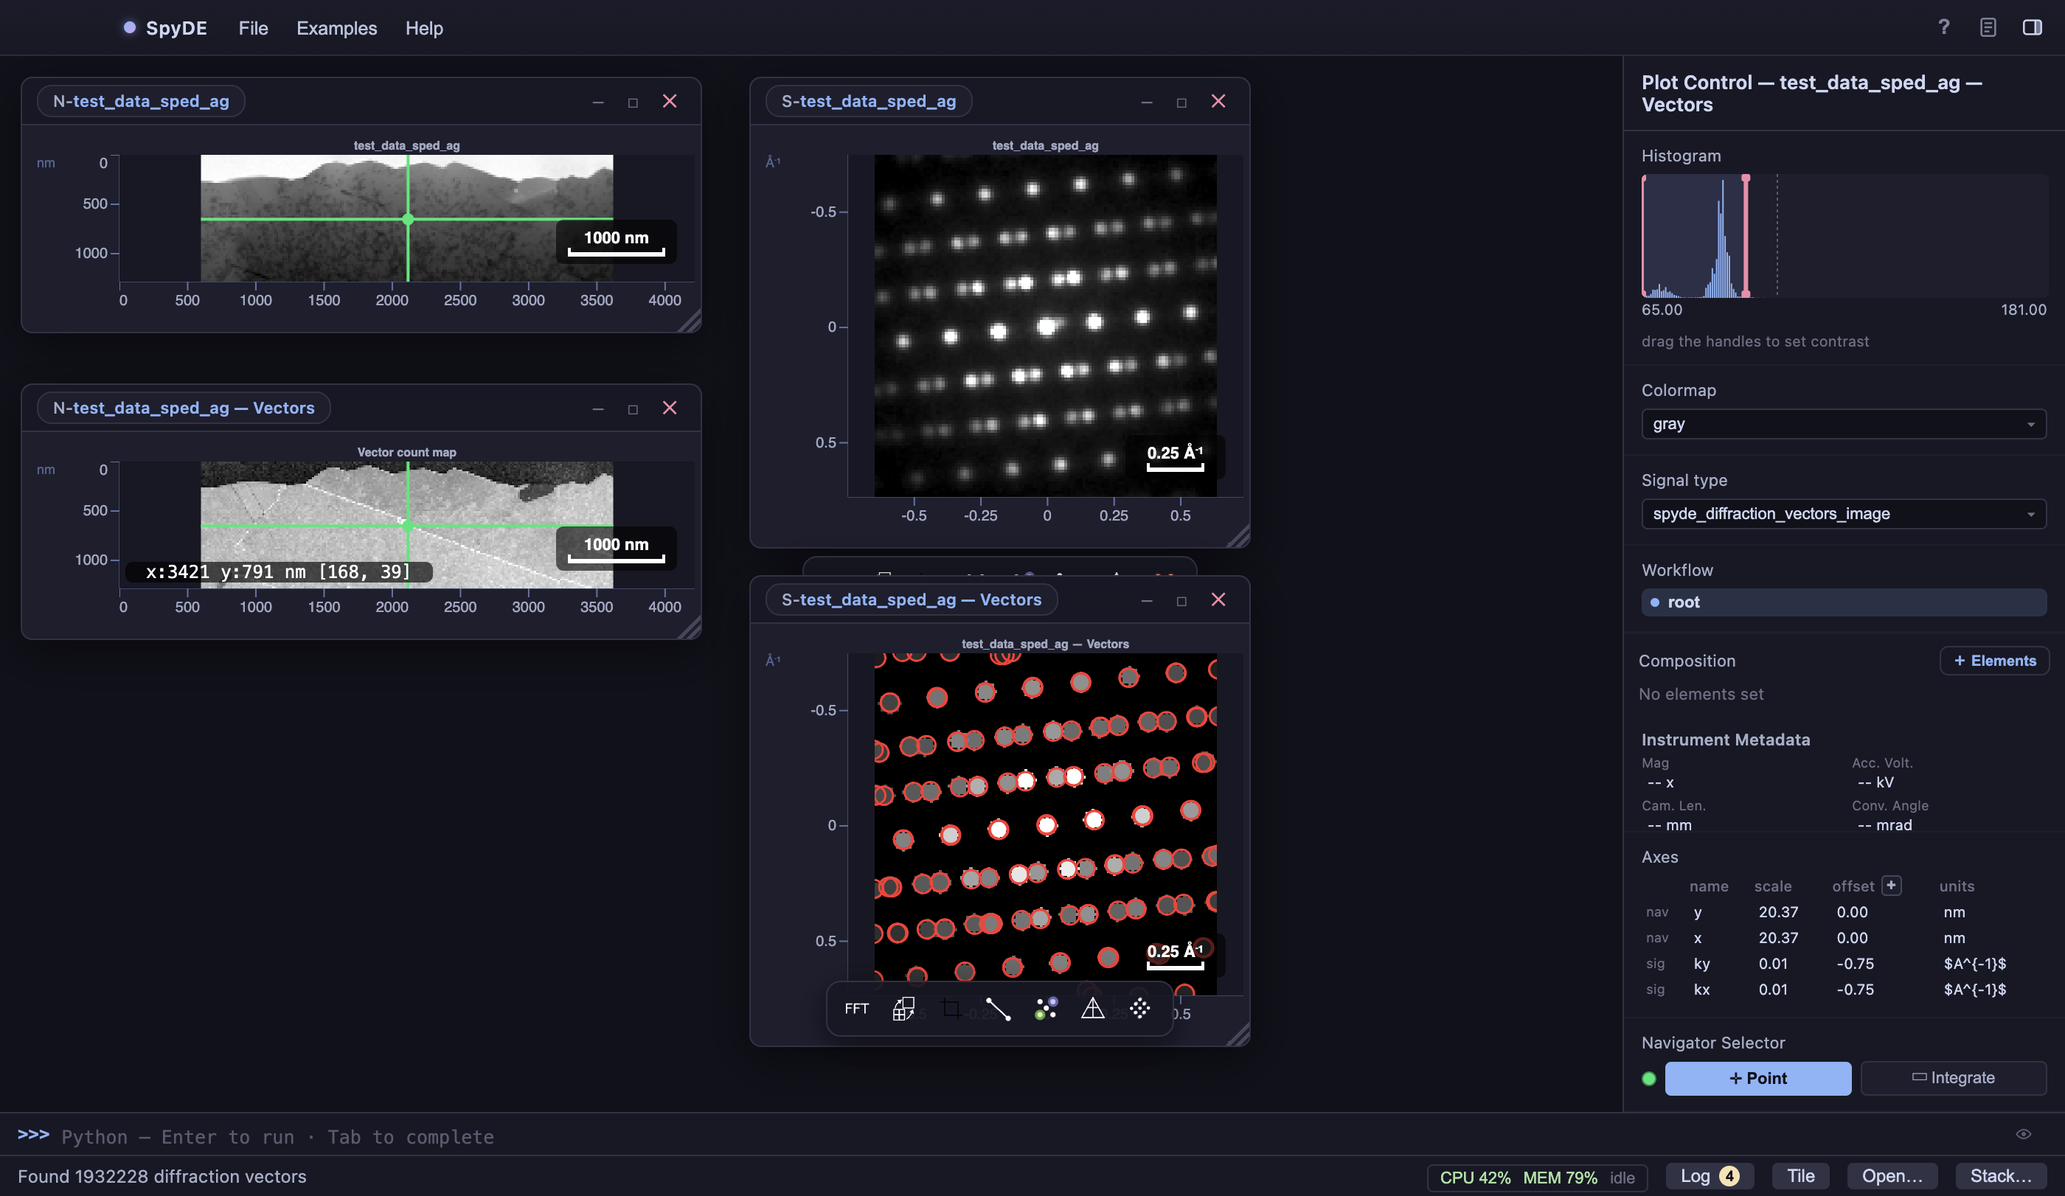
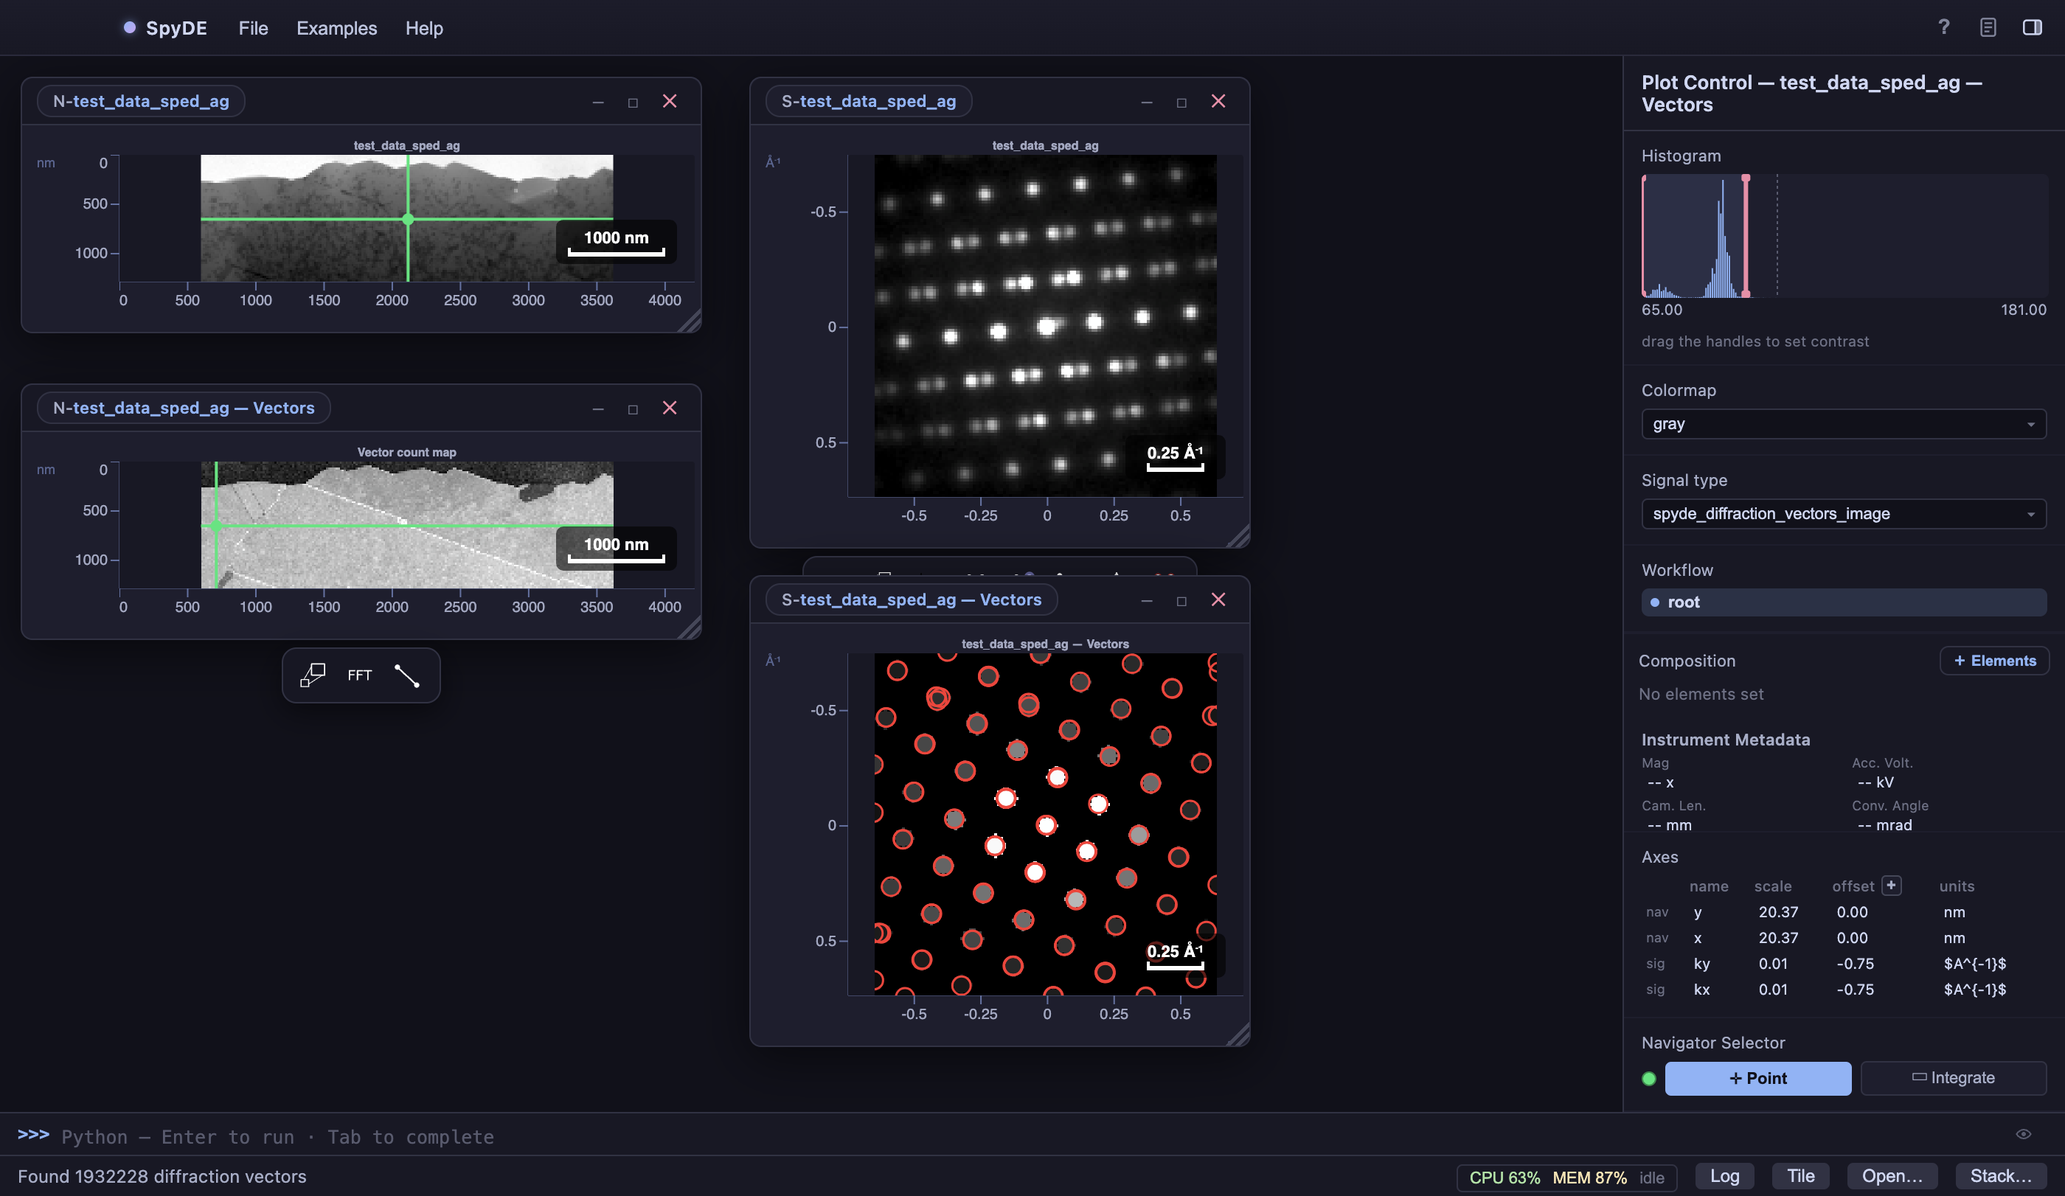
test(progressive): drive the navigator for real when proving the preview
The e2e spec's "drag over an already-computed region" pressed the pointer at an
arbitrary point on the count map and moved it 3 px. An anyplotlib crosshair is
GRABBED, not clicked to — the hit-test only matches within a few px of the
centre and the drag then moves it by the pointer DELTA — so that press moved
the navigator not at all, silently. The spec passed anyway: its only assertion
was that two of four sampled frames differed, which the auto-sample paints of
behaviour (a) satisfy on their own. Behaviour (b), reading an already-computed
position on demand, was never exercised. Confirmed from the screenshots: the
crosshair sat at the same pixel in every shot of the "drag" sequence.

- _harness.cjs grows crosshairAt / dragCrosshair: locate the crosshair by its
  pure-green guide lines (the column and the row carrying the most green
  pixels), grab it, walk it, and report how far it actually travelled. Both
  progressive specs now assert the crosshair MOVED before drawing any
  conclusion from the pixels.

- ProgressiveSignalPreview counts navigator-driven reads itself
  (frames_served / reads_declined) and narrates them on a throttled
  "[live-signal] … navigator read served" line. That is the direct evidence for
  (b): the signal plot is simultaneously being repainted by landing blocks, so
  a pixel signature cannot distinguish "the drag was answered" from "a block
  happened to land just then". The spec asserts the served count grows across
[…]

Changed region(s): [[0.4039, 0.524, 0.5904, 0.8631], [0.6836, 0.9556, 0.8389, 1.0], [0.0932, 0.4624, 0.2175, 0.4932]]

diff --git a/electron/tests/progressive_signal_preview.spec.ts b/electron/tests/progressive_signal_preview.spec.ts
@@ -17,6 +17,14 @@
  * (208x64 patterns) so the batch spans MANY nav chunks — si_grains is 6x6 and
  * computes as a SINGLE chunk, i.e. it has no progressive phase to observe.
  *
+ * (b) is asserted on the BACKEND's own served-read count, not on pixels alone:
+ * the signal plot is simultaneously being repainted by landing blocks (that is
+ * (a)), so "the picture changed after I dragged" cannot distinguish "the drag
+ * was answered" from "a block happened to land just then". The drag itself goes
+ * through the harness's `dragCrosshair` — an anyplotlib crosshair is GRABBED,
+ * not clicked to, and an earlier version of this spec pressed at an arbitrary
+ * point, moved the navigator not at all, and passed anyway.
+ *
  * Screenshots land in electron/progressive_signal_shots/ (gitignored; the ones
  * in the PR were copied from there).
  */
@@ -24,7 +32,7 @@ import { test, expect } from '@playwright/test'
 import { mkdirSync } from 'fs'
 import { join } from 'path'
 const {
-  launchApp, backendAction, waitForSubwindowCount, sigWindow,
+  launchApp, backendAction, waitForSubwindowCount, sigWindow, dragCrosshair,
 } = require('./_harness.cjs')
 
 const SHOTS = join(__dirname, '..', 'progressive_signal_shots')
@@ -80,13 +88,41 @@ const logLines = (needle: string): string[] =>
 
 const finalized = () => logLines('[fv-batch] finalized').length > 0
 
-/** `(N/M positions ready)` pairs from the preview's own log line. */
+/**
+ * `(N/M positions ready)` pairs from the AUTO-SAMPLE paint line — behaviour (a).
+ *
+ * Deliberately keyed on `preview frame at`, not on `[live-signal]`: the same
+ * subsystem also logs the navigator-read line for (b), which carries the same
+ * `(N/M positions ready` text, and counting both would let a navigator read
+ * satisfy the "a landing block painted a frame" assertion.
+ */
 function previewProgress(): Array<[number, number]> {
-  return logLines('[live-signal]')
-    .map((l) => /\((\d+)\/(\d+) positions ready\)/.exec(l))
+  return logLines('preview frame at')
+    .map((l) => /\((\d+)\/(\d+) positions ready/.exec(l))
     .filter(Boolean)
     .map((m) => [parseInt(m![1], 10), parseInt(m![2], 10)] as [number, number])
 }
+
+/**
+ * How many navigator-driven reads the preview has ANSWERED from the
+ * already-computed region — the backend's own count, parsed from the
+ * `navigator read served` line.
+ *
+ * This is the direct evidence for behaviour (b), and a pixel signature is not a
+ * substitute for it: the signal plot is also being repainted by landing blocks
+ * (behaviour (a)), so "the picture changed after I dragged" cannot distinguish
+ * "the drag was answered" from "a block happened to land just then".
+ */
+function servedCount(): number {
+  const lines = logLines('navigator read served')
+  if (!lines.length) return 0
+  const m = /(\d+) served/.exec(lines[lines.length - 1])
+  return m ? parseInt(m[1], 10) : 0
+}
+
+// The crosshair drag itself lives in the harness (`dragCrosshair`): an
+// anyplotlib crosshair is GRABBED, not clicked to, so a press at an arbitrary
+// point moves nothing — see the helper's own note.
 
 test('the vectors signal plot fills in while the batch is still running', async () => {
   const { page } = ctx
@@ -119,15 +155,24 @@ test('the vectors signal plot fills in while the batch is still running', async 
   await page.screenshot({ path: join(SHOTS, '02-result-window-opened.png') })
 
   // ── (a) the signal plot repaints WHILE the batch is still running ─────────
+  // The baseline: nothing computed yet, so the vectors DP is still its black
+  // placeholder. Every later shot is compared against this one.
+  const baseline = await figureSignature(vecSig)
+  await page.screenshot({ path: join(SHOTS, '03-fill-start-both-black.png') })
+
   const during: Array<{ sum: number; bright: number; ready: number; total: number }> = []
-  let shot = 3
+  let shot = 4
   for (let i = 0; i < 400 && !finalized(); i++) {
     const sig = await figureSignature(vecSig)
     const prog = previewProgress()
-    const last = prog.length ? prog[prog.length - 1] : [0, 0]
-    // One capture per NEW fill stage: the preview's own `(ready/total)` counter
-    // moving is what makes two shots worth keeping.
-    if (during.length === 0 || during[during.length - 1].ready !== last[0]) {
+    // Only start capturing once the PREVIEW has painted at least once —
+    // before that the plot can still repaint for unrelated reasons (chrome,
+    // the hover toolbar) and those frames say nothing about the fill.
+    if (!prog.length) { await page.waitForTimeout(400); continue }
+    const last = prog[prog.length - 1]
+    // One capture per REPAINT: a changed content signature is the thing being
+    // asserted, and the `(ready/total)` the preview last logged labels it.
+    if (during.length === 0 || during[during.length - 1].sum !== sig.sum) {
       during.push({ ...sig, ready: last[0], total: last[1] })
       await page.screenshot({
         path: join(SHOTS, `${String(shot++).padStart(2, '0')}-during-fill-${last[0]}of${last[1]}.png`),
@@ -137,7 +182,14 @@ test('the vectors signal plot fills in while the batch is still running', async 
     await page.waitForTimeout(400)
   }
   // eslint-disable-next-line no-console
-  console.log('during-fill samples:', JSON.stringify(during))
+  console.log('during-fill samples:', JSON.stringify(during),
+              'baseline:', JSON.stringify(baseline))
+
+  // It came off the black placeholder, not merely "changed somehow".
+  expect(during.every((d) => d.bright > baseline.bright),
+    `the vectors DP never got brighter than its black placeholder
+     (baseline ${JSON.stringify(baseline)}): ${JSON.stringify(during)}`,
+  ).toBeTruthy()
 
   const progress = previewProgress()
   expect(progress.length,
@@ -156,27 +208,36 @@ test('the vectors signal plot fills in while the batch is still running', async 
   const vecNav = results
     .filter({ has: page.getByTestId('window-breadcrumb').filter({ hasText: /^N-/ }) })
     .last()
-  const navBox = await vecNav.locator('iframe').first().boundingBox()
-  expect(navBox).not.toBeNull()
-  // Walk across the count map: the already-filled part of the scan reads back
-  // straight away, so each position paints ITS OWN pattern (a distinct
-  // signature) instead of leaving the DP on one stale frame.
+  // Walk LEFT from the crosshair: the result window's right edge sits under the
+  // Plot Control dock, and a press that lands on the dock drives nothing.
+  const servedBefore = servedCount()
   const dragSigs: number[] = []
-  for (const fx of [0.3, 0.45, 0.6, 0.75]) {
-    await page.mouse.move(navBox!.x + navBox!.width * fx,
-                          navBox!.y + navBox!.height * 0.5)
-    await page.mouse.down()
-    await page.mouse.move(navBox!.x + navBox!.width * fx + 3,
-                          navBox!.y + navBox!.height * 0.5 + 3, { steps: 4 })
-    await page.mouse.up()
-    await page.waitForTimeout(700)
-    dragSigs.push((await figureSignature(vecSig)).sum)
-  }
+  const walk = await dragCrosshair(page, vecNav, {
+    dx: -26, steps: 5,
+    onStep: async (i: number) => {
+      dragSigs.push((await figureSignature(vecSig)).sum)
+      await page.screenshot({ path: join(SHOTS, `8${i}-drag-step-${i}.png`) })
+    },
+  })
+
   const stillRunning = !finalized()
+  const servedAfter = servedCount()
   await page.screenshot({ path: join(SHOTS, '90-drag-over-computed.png') })
   // eslint-disable-next-line no-console
-  console.log('drag over computed region: signatures', JSON.stringify(dragSigs),
+  console.log('drag over computed region: crosshair moved', walk.moved, 'px',
+              'signatures', JSON.stringify(dragSigs),
+              'served', servedBefore, '→', servedAfter,
               'batch still running:', stillRunning)
+
+  // The guard the previous version of this spec lacked: if the crosshair never
+  // moved, everything below is measuring landing blocks, not the drag.
+  expect(walk.moved,
+    'the navigator crosshair never moved, so nothing about reading an '
+    + 'already-computed position was exercised').toBeGreaterThan(20)
+  // The backend answering navigator reads from its ready mask IS behaviour (b).
+  expect(servedAfter - servedBefore,
+    'dragging the navigator over the computed region did not serve a single '
+    + 'frame from the already-computed vectors').toBeGreaterThan(0)
   expect(new Set(dragSigs).size,
     `the diffraction pattern did not follow the navigator over the computed
      region (identical frames at every position): ${JSON.stringify(dragSigs)}`,

diff --git a/electron/tests/progressive_orientation_preview.spec.ts b/electron/tests/progressive_orientation_preview.spec.ts
@@ -22,7 +22,7 @@ import { test, expect } from '@playwright/test'
 import { mkdirSync } from 'fs'
 import { join } from 'path'
 const {
-  launchApp, backendAction, waitForSubwindowCount, sigWindow,
+  launchApp, backendAction, waitForSubwindowCount, dragCrosshair,
 } = require('./_harness.cjs')
 
 const SHOTS = join(__dirname, '..', 'progressive_orientation_shots')
@@ -41,6 +41,28 @@ test.afterAll(async () => {
 })
 
 test.setTimeout(600_000)
+
+/** Checksum of one subwindow's figure canvases — "is this a different frame?" */
+async function figureSignature(win: any): Promise<number> {
+  const ifel = await win.locator('iframe').first().elementHandle()
+  if (!ifel) return -1
+  const frame = await ifel.contentFrame()
+  if (!frame) return -1
+  try {
+    return await frame.evaluate(() => {
+      let sum = 0
+      for (const c of Array.from(document.querySelectorAll('canvas')) as HTMLCanvasElement[]) {
+        const g = c.getContext('2d')
+        if (!g || !c.width || !c.height) continue
+        const d = g.getImageData(0, 0, c.width, c.height).data
+        for (let p = 0; p < d.length; p += 4) {
+          sum = (sum + (d[p] + d[p + 1] + d[p + 2]) * (1 + (p % 7))) % 2147483647
+        }
+      }
+      return sum
+    })
+  } catch { return -1 }
+}
 
 test('the IPF map fills in while the source DP stays navigable', async () => {
   const { page } = ctx
@@ -62,18 +84,34 @@ test('the IPF map fills in while the source DP stays navigable', async () => {
   const srcNav = page.getByTestId('subwindow')
     .filter({ has: page.getByTestId('window-breadcrumb').filter({ hasText: /^N-test/ }) })
     .first()
-  const navBox = await srcNav.locator('iframe').first().boundingBox()
-  expect(navBox).not.toBeNull()
-  for (let i = 0; i < 4; i++) {
-    const fx = 0.25 + 0.15 * i
-    await page.mouse.move(navBox!.x + navBox!.width * fx, navBox!.y + navBox!.height * 0.5)
-    await page.mouse.down()
-    await page.mouse.move(navBox!.x + navBox!.width * fx + 3,
-                          navBox!.y + navBox!.height * 0.5 + 3, { steps: 4 })
-    await page.mouse.up()
-    await page.waitForTimeout(1200)
-    await page.screenshot({ path: join(SHOTS, `${String(i + 2).padStart(2, '0')}-during-fill.png`) })
-  }
+  const srcSig = page.getByTestId('subwindow')
+    .filter({ has: page.getByTestId('window-breadcrumb').filter({ hasText: /^S-test/ }) })
+    .first()
+
+  const dpSigs: number[] = []
+  const walk = await dragCrosshair(page, srcNav, {
+    dx: -30, steps: 4, settleMs: 1200,
+    onStep: async (i: number) => {
+      dpSigs.push(await figureSignature(srcSig))
+      await page.screenshot({
+        path: join(SHOTS, `${String(i + 1).padStart(2, '0')}-during-fill.png`),
+      })
+    },
+  })
+  // eslint-disable-next-line no-console
+  console.log('source nav during OM fill: crosshair moved', walk.moved, 'px',
+              'DP signatures', JSON.stringify(dpSigs))
+
+  // The point of the change: the SOURCE window is navigable throughout the
+  // (minutes-long) match. Without the crosshair-moved guard this would pass
+  // even if the press missed the widget entirely and the DP never changed.
+  expect(walk.moved,
+    'the source navigator crosshair never moved during the orientation fill',
+  ).toBeGreaterThan(20)
+  expect(new Set(dpSigs).size,
+    `the source diffraction pattern did not follow the navigator while the
+     orientation map was filling: ${JSON.stringify(dpSigs)}`,
+  ).toBeGreaterThan(1)
 
   // Deliberately NOT waiting out the whole dense match (many minutes on 13k
   // patterns): everything this spec is about happens in the first blocks, and

diff --git a/spyde/actions/live_signal.py b/spyde/actions/live_signal.py
@@ -111,15 +111,22 @@ class ProgressiveSignalPreview:
         self._last_paint = 0.0
         self._last_user = 0.0
         self._last_log = 0.0
+        self._last_serve_log = 0.0
         self._installed: list[tuple[Any, Any, Any]] = []
         # ONE bound method, kept for the lifetime of the preview: `self._slice_fn`
         # builds a fresh bound object on every attribute access, so the identity
         # checks that install/close rely on ("is this slice function still ours?")
         # would never match.
         self.slice_fn = self._slice_fn
-        #: counters the tests (and the log line) assert on
+        #: counters the tests (and the log lines) assert on
         self.blocks_seen = 0
+        #: (a) auto-sample paints driven by a landing block
         self.frames_painted = 0
+        #: (b) navigator-driven reads answered from the already-computed region
+        self.frames_served = 0
+        #: navigator-driven reads that landed on a position the batch has not
+        #: reached yet (returned None → the last good frame stays up)
+        self.reads_declined = 0
 
     # ── the readiness feed ───────────────────────────────────────────────────
 
@@ -272,14 +279,34 @@ class ProgressiveSignalPreview:
         the batch has not reached yet, which ``BaseSelector._run_update`` treats
         as "nothing to paint" — the last good frame stays up.
         """
-        self._last_user = time.monotonic()
+        now = time.monotonic()
+        self._last_user = now
         if self._closed:
             return None
         try:
             index = self._resolve_index(indices)
             if index is None or not self.is_ready(index):
+                self.reads_declined += 1
                 return None
-            return self.render(index)
+            frame = self.render(index)
+            if frame is None:
+                self.reads_declined += 1
+                return None
+            self.frames_served += 1
+            # Narrate the READ path separately from the auto-sample paint above:
+            # this line is the only direct evidence that dragging the navigator
+            # over an ALREADY-COMPUTED region returned that position's real
+            # frame (as opposed to the display merely being repainted by a
+            # landing block). The e2e spec asserts on it, because a pixel
+            # signature alone cannot tell those two causes apart.
+            if self.frames_served == 1 or now - self._last_serve_log >= LOG_MIN_INTERVAL:
+                self._last_serve_log = now
+                log.info("[live-signal] %s: navigator read served at %s from the "
+                         "already-computed region (%d/%d positions ready, "
+                         "%d served / %d not yet computed)",
+                         self.name, index, self.ready_count, self.n_positions,
+                         self.frames_served, self.reads_declined)
+            return frame
         except Exception as e:
             log.debug("[%s] preview slice failed: %s", self.name, e)
             return None

diff --git a/spyde/tests/migrated/test_progressive_signal_preview.py b/spyde/tests/migrated/test_progressive_signal_preview.py
@@ -208,6 +208,37 @@ class TestProgressiveSignalPreview:
         assert preview.slice_fn(_nav_selector(tree), None, [[3, 0]]) is None
         preview.close()
 
+    def test_served_and_declined_reads_are_counted(self, window):
+        """The (b) counters the e2e spec asserts on.
+
+        A pixel signature cannot tell "the drag was answered" apart from "a
+        block landed just then" — both repaint the same plot — so the backend
+        counts navigator-driven reads itself and the spec reads that count.
+        """
+        session = window["window"]
+        tree = _result_tree(session)
+        store = LiveVectorFrames(sig_hw=(16, 16), kernel_radius_px=2)
+        preview = attach_signal_preview(session, tree, render=store.render,
+                                        nav_shape=(4, 5))
+        sel = _nav_selector(tree)
+        assert (preview.frames_served, preview.reads_declined) == (0, 0)
+
+        # Nothing computed yet → every read is declined, nothing served.
+        assert preview.slice_fn(sel, None, [[1, 2]]) is None
+        assert (preview.frames_served, preview.reads_declined) == (0, 1)
+
+        store.add((slice(2, 4), slice(0, 2)),
+                  _block(2, 2, 4, {(0, 1): [(6.0, 7.0, 4.0)]}))
+        preview.note_block((slice(2, 4), slice(0, 2)))
+
+        # Now the SAME position is answered from the computed region.
+        assert preview.slice_fn(sel, None, [[1, 2]]) is not None
+        assert preview.frames_served == 1
+        # A position outside the landed block is still declined.
+        assert preview.slice_fn(sel, None, [[3, 0]]) is None
+        assert (preview.frames_served, preview.reads_declined) == (1, 2)
+        preview.close()
+
     def test_block_paints_a_sample_frame(self, window):
         """(a) — a landing block puts a frame on the signal plot."""
         session = window["window"]
